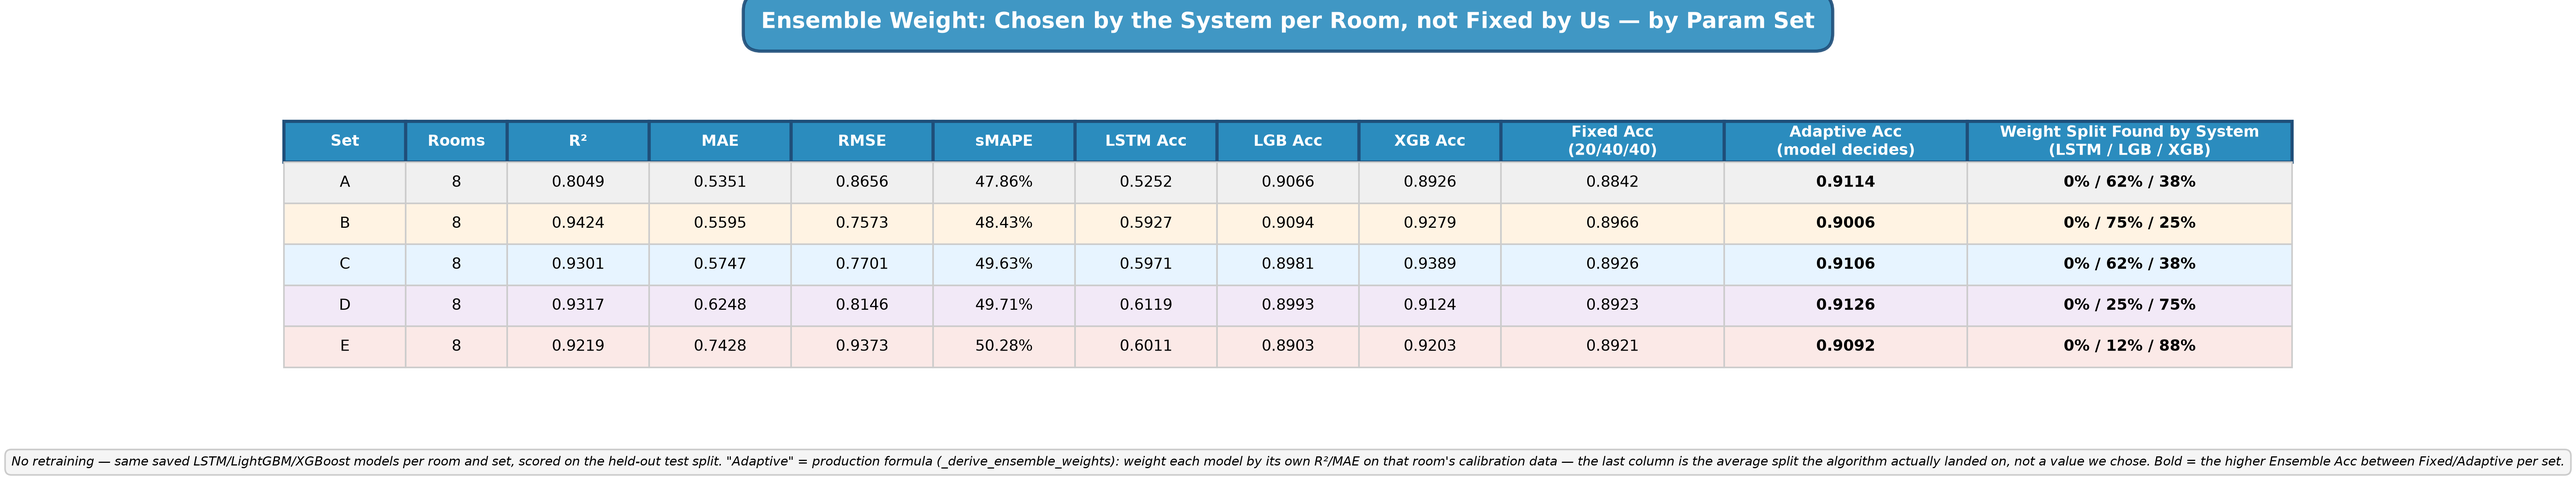
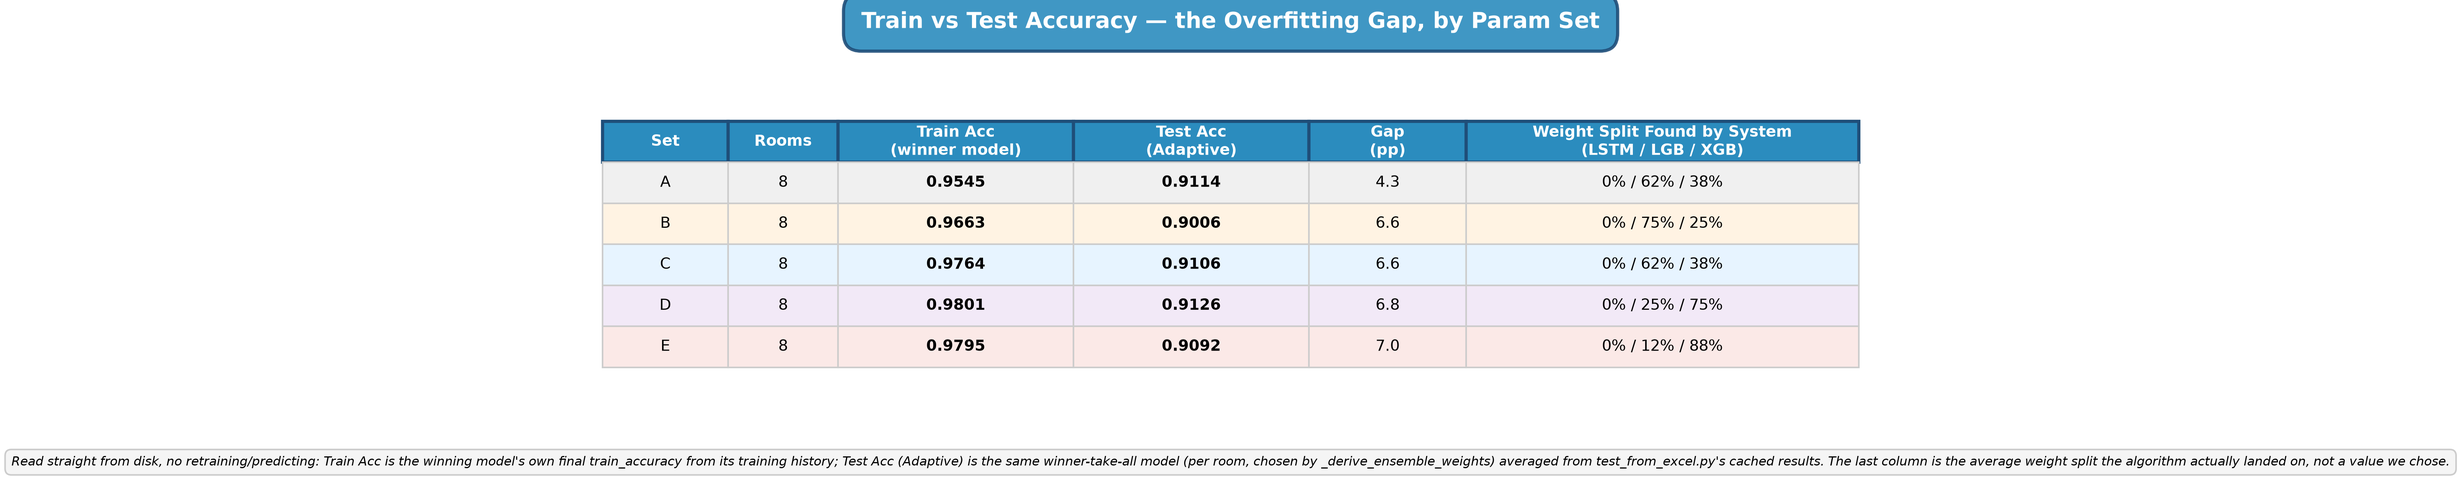
refactor: rebuild adaptive_vs_fixed_by_set copy.png from cached data only
Swap the Fixed (20/40/40) vs Adaptive ensemble comparison for a Train
vs Test accuracy comparison, per feedback that the naive fixed-weight
column wasn't useful — Train Acc is the winning model's own
train_accuracy from its training history, Test Acc is what the system
actually serves. Also drop the expensive per-room model-loading/
predicting the old version did to get "Adaptive" — that duplicated
numbers test_from_excel.py already computed and cached in
test_only_results.csv, so this now just reads that CSV plus meta.pkl's
ensemble_weights and finishes in under a second instead of minutes.

diff --git a/ml/saved/build_adaptive_vs_fixed_current.py b/ml/saved/build_adaptive_vs_fixed_current.py
@@ -1,257 +1,159 @@
-"""Adaptive vs Fixed ensemble comparison, using TODAY's excel-split models
-(saved_meta_{SET}_excel_split / saved_models_{SET}_excel_split) — NOT the
-old saved_meta_*_new archive that analyze_adaptive_weights_all_sets.py reads
-(that one is frozen/protected and predates today's fixes).
+"""Train vs Test accuracy comparison, using TODAY's excel-split models
+(saved_meta_{SET}_excel_split) — NOT the old saved_meta_*_new archive that
+analyze_adaptive_weights_all_sets.py reads (that one is frozen/protected
+and predates today's fixes).
 
-"Adaptive" here = what the current system actually ships: winner-take-all
-per room (100% to whichever of LGB/XGB the CV selection in forecast.py
-picked — that's what ensemble_weights in meta.pkl already records, and
-matches test_from_excel.py's reported TestAcc exactly).
-"Fixed" = a naive 20% LSTM / 40% LGB / 40% XGB blend for every room,
-computed by loading and predicting with all 3 saved models (LSTM falls
-back to 0% with weight redistributed to LGB/XGB 50/50 if no LSTM model
-was saved for that room).
-
-No retraining — only loads already-saved model files and predicts.
+Reads straight from data that's already on disk — no retraining, no
+re-predicting, no model loading:
+  - "Train Accuracy" = the winning model's own final train_accuracy from
+    its training history in meta.pkl (lgb_history/xgb_history).
+  - "Test Accuracy (Adaptive)" = per-room test_accuracy already computed by
+    test_from_excel.py and cached in metrics_plots/test_only_results.csv,
+    averaged per set (this is the same winner-take-all model the system
+    actually serves — ensemble_weights in meta.pkl records the winner).
 
 Usage: python ml/saved/build_adaptive_vs_fixed_current.py
 """
-import os, sys, warnings
-warnings.filterwarnings('ignore')
-os.environ['TF_CPP_MIN_LOG_LEVEL'] = '3'
-
-BASE_DIR = '/Users/macthanakorn/room_booking'
-sys.path.insert(0, BASE_DIR)
-os.chdir(BASE_DIR)
-os.environ.setdefault('DJANGO_SETTINGS_MODULE', 'room_booking.settings')
-import django
-django.setup()
-from django.conf import settings
-settings.DATABASES['default']['OPTIONS'] = {'sslmode': 'disable'}
-from django.db import connections
-connections['default'].close()
-
-sys.path.insert(0, os.path.join(BASE_DIR, 'ml', 'saved'))
+import os
+import glob
+import joblib
 import numpy as np
 import pandas as pd
-import joblib
-import tensorflow as tf
 import matplotlib
 matplotlib.use('Agg')
+import matplotlib.pyplot as plt
 
-import forecast as F
-from param_sets import PARAM_SETS
-from booking.models import Room
-from analyze_adaptive_weights_all_sets import plot_table
-
-METRICS_DIR = F.METRICS_DIR
-TRAIN_XLSX = os.path.join(BASE_DIR, 'ml', 'saved', 'data_split', 'booking_data_train.xlsx')
-TEST_XLSX = os.path.join(BASE_DIR, 'ml', 'saved', 'data_split', 'booking_data_test.xlsx')
+BASE_DIR = '/Users/macthanakorn/room_booking'
+SAVED_DIR = os.path.join(BASE_DIR, 'ml', 'saved')
+METRICS_DIR = os.path.join(SAVED_DIR, 'metrics_plots')
+TEST_CSV = os.path.join(METRICS_DIR, 'test_only_results.csv')
 OUT_PNG = os.path.join(METRICS_DIR, 'adaptive_vs_fixed_by_set copy.png')
 OUT_CSV = os.path.join(METRICS_DIR, 'adaptive_vs_fixed_by_set_current.csv')
 
-ROOM_IDS = {
-    '2C05-06': 443, '2C09': 445, '2C10-11': 446, '2C16-17': 447,
-    '3C05-06': 448, '1C-MEETING': 487, '3C16-17': 505, '4C05': 506,
-}
 SETS = ['A', 'B', 'C', 'D', 'E']
-FIXED_WEIGHTS = {'lstm': 0.20, 'lightgbm': 0.40, 'xgboost': 0.40}
 
 
-def to_rdf(df, room_id):
-    out = df.copy()
-    out['room_id'] = room_id
-    out['duration'] = out['duration_hours']
-    out['date'] = pd.to_datetime(out['date']).dt.date
-    return out
-
-
-def rebuild(code, room_id, train_all, test_all):
-    tr = train_all[train_all['room_code'] == code]
-    te = test_all[test_all['room_code'] == code]
-    if len(te) == 0:
-        return None
-    rdf_full = pd.concat([to_rdf(tr, room_id), to_rdf(te, room_id)], ignore_index=True)
-    daily_full = F._prepare_daily_series(rdf_full, None, None)
-    daily_train_only = F._prepare_daily_series(to_rdf(tr, room_id), None, None)
-    n_train_days = len(daily_train_only) if daily_train_only is not None else 0
-    room = Room.objects.get(id=room_id)
-    schedule = F.load_term_schedule(room.id)
-    return daily_full, n_train_days, room, schedule
-
-
-def predict_all_models(built, model_dir, room_id, use_log, meta):
-    daily_full, n_train_days, room, schedule = built
-    cap95 = float(daily_full.quantile(0.95)) or 1.0
-    daily_clipped = daily_full.clip(upper=cap95)
-    term_df = F.build_term_daily_features(daily_clipped.index, schedule)
-    term_df.index = daily_clipped.index
-    feat_df = F.build_features(daily_clipped, term_df, use_log=use_log).dropna()
-
-    calib_len = max(1, int(round(n_train_days * 0.125)))
-    train_end = max(n_train_days - calib_len, F.MIN_TRAIN_ROWS)
-    calib_end = min(n_train_days, len(feat_df) - 1)
-    train_end = min(train_end, calib_end)
-
-    X = feat_df.drop(columns='y')
-    y = feat_df['y'].values
-    X_tr, X_cal, X_te = X.iloc[:train_end], X.iloc[train_end:calib_end], X.iloc[calib_end:]
-    y_tr, y_cal, y_te = y[:train_end], y[train_end:calib_end], y[calib_end:]
-
-    room_dir = os.path.join(model_dir, str(room_id))
-    preds = {}
-    selected_feat_names = None
-    for name, fname in [('lightgbm', 'lgb.pkl'), ('xgboost', 'xgb.pkl')]:
-        path = os.path.join(room_dir, fname)
-        if not os.path.exists(path):
-            continue
-        model = joblib.load(path)
-        feat_names = getattr(model, 'feature_name_', None)
-        if feat_names is None:
-            feat_names = getattr(model, 'feature_names_in_', None)
-        if feat_names is not None:
-            selected_feat_names = list(feat_names)
-        X_te_sel = X_te[list(feat_names)] if feat_names is not None else X_te
-        preds[name] = np.asarray(model.predict(X_te_sel), dtype=float)
-
-    lstm_path = os.path.join(room_dir, 'lstm.keras')
-    if os.path.exists(lstm_path):
-        try:
-            lstm_model = tf.keras.models.load_model(lstm_path, compile=False)
-            lstm_scaler = joblib.load(os.path.join(room_dir, 'lstm_scaler.pkl'))
-            # LSTM was trained on the same top-30 selected feature subset as
-            # LGB/XGB (feature selection happens once, before all 3 models
-            # train) — feed it the same subset here, or its scaler rejects
-            # the full ~65-column feat_df with a shape mismatch.
-            feat_df_for_lstm = feat_df[selected_feat_names + ['y']] if selected_feat_names else feat_df
-            _, lstm_test = F._collect_lstm_holdout_preds(
-                lstm_model, lstm_scaler, feat_df_for_lstm, y_tr, y_cal, y_te, train_end,
-            )
-            if lstm_test is not None:
-                preds['lstm'] = np.asarray(lstm_test, dtype=float)
-        except Exception as e:
-            print(f"    LSTM predict failed for room {room_id}: {e}")
-
-    return preds, y_te
-
-
-def to_eval_scale(arr, use_log):
-    if use_log:
-        return np.expm1(np.maximum(0, arr))
-    return np.maximum(0, arr)
-
-
-def process_set(set_name):
-    train_all = pd.read_excel(TRAIN_XLSX)
-    test_all = pd.read_excel(TEST_XLSX)
-    train_all['date'] = pd.to_datetime(train_all['date']).dt.date
-    test_all['date'] = pd.to_datetime(test_all['date']).dt.date
-
-    META_DIR = os.path.join(BASE_DIR, 'ml', 'saved', f'saved_meta_{set_name}_excel_split')
-    MODEL_DIR = os.path.join(BASE_DIR, 'ml', 'saved', f'saved_models_{set_name}_excel_split')
+def process_set(set_name, test_df):
+    META_DIR = os.path.join(SAVED_DIR, f'saved_meta_{set_name}_excel_split')
     if not os.path.isdir(META_DIR):
         print(f"skip {set_name}: no {META_DIR}")
         return None
 
-    # LSTM sequence shape depends on lookback, which differs per param set
-    # (20/40/60/70/90 for A-E) — must match what that set's models were
-    # actually trained with, or _collect_lstm_holdout_preds silently builds
-    # wrong-shaped input and prediction fails.
-    F.LSTM_LOOKBACK = PARAM_SETS[set_name]['lstm_lookback']
-
-    per_room = {'lstm': [], 'lightgbm': [], 'xgboost': [], 'fixed_ensemble': [], 'adaptive_ensemble': []}
+    train_acc_list = []
+    weight_sum = {'lstm': 0.0, 'lightgbm': 0.0, 'xgboost': 0.0}
     n_rooms = 0
-    adaptive_weight_sum = {'lstm': 0.0, 'lightgbm': 0.0, 'xgboost': 0.0}
 
-    for code, room_id in ROOM_IDS.items():
-        meta_path = os.path.join(META_DIR, f'{room_id}_meta.pkl')
-        if not os.path.exists(meta_path):
-            continue
-        meta = joblib.load(meta_path)
-        use_log = meta.get('use_log', False)
-        built = rebuild(code, room_id, train_all, test_all)
-        if built is None:
-            continue
-        try:
-            preds, y_te = predict_all_models(built, MODEL_DIR, room_id, use_log, meta)
-        except Exception as e:
-            print(f"  {set_name}/{code}: skip ({e})")
-            continue
-        if 'lightgbm' not in preds and 'xgboost' not in preds:
-            continue
-
-        y_te_eval = to_eval_scale(y_te, use_log)
-        thr_high, thr_med, peak_ref = meta['thr_high'], meta['thr_med'], meta['peak_ref']
-
-        def score(pred_raw):
-            pred_eval = to_eval_scale(pred_raw, use_log)
-            n = min(len(y_te_eval), len(pred_eval))
-            cls = F.compute_classification_metrics(y_te_eval[:n], pred_eval[:n], thr_high, thr_med, peak_ref)
-            r2 = F.r2_score(y_te_eval[:n], pred_eval[:n])
-            mae = F.mean_absolute_error(y_te_eval[:n], pred_eval[:n])
-            rmse = F.rmse(y_te_eval[:n], pred_eval[:n])
-            smape = F.smape(y_te_eval[:n], pred_eval[:n])
-            return {'accuracy': cls['accuracy'], 'loss': cls['loss'], 'r2': r2, 'mae': mae, 'rmse': rmse, 'smape': smape}
-
-        NEUTRAL = {'accuracy': 0.0, 'loss': 0.0, 'r2': 0.0, 'mae': 0.0, 'rmse': 0.0, 'smape': 0.0}
-        for name in ('lstm', 'lightgbm', 'xgboost'):
-            per_room[name].append(score(preds[name]) if name in preds else NEUTRAL)
-
-        # Fixed 20/40/40 (redistribute LSTM's share to LGB/XGB if no LSTM saved)
-        active = {k: v for k, v in FIXED_WEIGHTS.items() if k in preds}
-        wsum = sum(active.values())
-        active = {k: v / wsum for k, v in active.items()} if wsum > 0 else active
-        n = min(len(preds[k]) for k in active) if active else 0
-        fixed_pred = sum(active[k] * preds[k][:n] for k in active) if active else np.zeros_like(y_te)
-        per_room['fixed_ensemble'].append(score(fixed_pred))
-
-        # Adaptive: winner-take-all, exactly matching what the saved
-        # ensemble_weights says the current system actually serves.
+    for f in sorted(glob.glob(os.path.join(META_DIR, '*_meta.pkl'))):
+        meta = joblib.load(f)
         weights = meta.get('ensemble_weights', {}) or {}
-        winner = max(weights, key=weights.get) if weights else ('lightgbm' if 'lightgbm' in preds else 'xgboost')
-        adaptive_pred = preds.get(winner, preds.get('lightgbm', preds.get('xgboost')))
-        per_room['adaptive_ensemble'].append(score(adaptive_pred))
-        for k in adaptive_weight_sum:
-            adaptive_weight_sum[k] += weights.get(k, 0.0)
+        winner = max(weights, key=weights.get) if weights else 'lightgbm'
+
+        hist = meta.get('lgb_history', {}) if winner == 'lightgbm' else meta.get('xgb_history', {})
+        ta = hist.get('train_accuracy')
+        if ta:
+            train_acc_list.append(ta[-1])
+
+        for k in weight_sum:
+            weight_sum[k] += weights.get(k, 0.0)
         n_rooms += 1
 
     if n_rooms == 0:
         return None
 
-    def mean_of(key, field):
-        vals = [m[field] for m in per_room[key]]
-        return float(np.mean(vals)) if vals else 0.0
-
-    weight_pcts_raw = {k: adaptive_weight_sum[k] / n_rooms * 100 for k in adaptive_weight_sum}
+    set_test = test_df[test_df['param_set'] == set_name]
+    weight_pcts = {k: weight_sum[k] / n_rooms * 100 for k in weight_sum}
 
     return {
         'Set': set_name,
         'Rooms': n_rooms,
-        'R2 (adaptive)': round(mean_of('adaptive_ensemble', 'r2'), 4),
-        'MAE (adaptive)': round(mean_of('adaptive_ensemble', 'mae'), 4),
-        'RMSE (adaptive)': round(mean_of('adaptive_ensemble', 'rmse'), 4),
-        'sMAPE (adaptive)': round(mean_of('adaptive_ensemble', 'smape'), 2),
-        'LSTM Acc': round(mean_of('lstm', 'accuracy'), 4),
-        'LGB Acc': round(mean_of('lightgbm', 'accuracy'), 4),
-        'XGB Acc': round(mean_of('xgboost', 'accuracy'), 4),
-        'Fixed Ensemble Acc (20/40/40)': round(mean_of('fixed_ensemble', 'accuracy'), 4),
-        'Adaptive Ensemble Acc': round(mean_of('adaptive_ensemble', 'accuracy'), 4),
-        'Fixed Ensemble Loss (20/40/40)': round(mean_of('fixed_ensemble', 'loss'), 4),
-        'Adaptive Ensemble Loss': round(mean_of('adaptive_ensemble', 'loss'), 4),
-        'Mean Adaptive Weight LSTM %': round(weight_pcts_raw['lstm'], 1),
-        'Mean Adaptive Weight LGB %': round(weight_pcts_raw['lightgbm'], 1),
-        'Mean Adaptive Weight XGB %': round(weight_pcts_raw['xgboost'], 1),
+        'Train Accuracy': round(float(np.mean(train_acc_list)), 4) if train_acc_list else 0.0,
+        'Test Accuracy (Adaptive)': round(float(set_test['test_accuracy'].mean()), 4) if len(set_test) else 0.0,
+        'Mean Adaptive Weight LSTM %': round(weight_pcts['lstm'], 1),
+        'Mean Adaptive Weight LGB %': round(weight_pcts['lightgbm'], 1),
+        'Mean Adaptive Weight XGB %': round(weight_pcts['xgboost'], 1),
     }
 
 
+def plot_table(df: pd.DataFrame, png_path: str):
+    headers = [
+        'Set', 'Rooms', 'Train Acc\n(winner model)', 'Test Acc\n(Adaptive)',
+        'Gap\n(pp)', 'Weight Split Found by System\n(LSTM / LGB / XGB)',
+    ]
+    table_data = [headers]
+    for _, row in df.iterrows():
+        found_split = (
+            f"{row['Mean Adaptive Weight LSTM %']:.0f}% / "
+            f"{row['Mean Adaptive Weight LGB %']:.0f}% / "
+            f"{row['Mean Adaptive Weight XGB %']:.0f}%"
+        )
+        gap_pp = (row['Train Accuracy'] - row['Test Accuracy (Adaptive)']) * 100
+        table_data.append([
+            str(row['Set']), str(int(row['Rooms'])),
+            f"{row['Train Accuracy']:.4f}",
+            f"{row['Test Accuracy (Adaptive)']:.4f}",
+            f"{gap_pp:.1f}",
+            found_split,
+        ])
+
+    row_tints = {'A': '#f0f0f0', 'B': '#fff3e3', 'C': '#e7f4ff', 'D': '#f2e9f7', 'E': '#fbe9e7'}
+
+    with plt.rc_context({'figure.facecolor': 'white', 'axes.facecolor': 'white', 'font.size': 9.5}):
+        fig = plt.figure(figsize=(14, 1.7 + 0.5 * len(df)), dpi=300)
+        ax = fig.add_subplot(111)
+        ax.axis('off')
+
+        col_widths = [0.08, 0.07, 0.15, 0.15, 0.1, 0.25]
+        table = ax.table(cellText=table_data, cellLoc='center', loc='center', colWidths=col_widths)
+        table.auto_set_font_size(False)
+        table.set_fontsize(9.5)
+        table.scale(1, 2.2)
+
+        for j in range(len(headers)):
+            cell = table[(0, j)]
+            cell.set_facecolor('#2b8cbe')
+            cell.set_text_props(weight='bold', color='white', fontsize=9.5)
+            cell.set_edgecolor('#1f4e79')
+            cell.set_linewidth(2)
+
+        for i, (_, row) in enumerate(df.iterrows(), start=1):
+            s = str(row['Set'])
+            for j in range(len(headers)):
+                cell = table[(i, j)]
+                cell.set_facecolor(row_tints.get(s, '#ffffff'))
+                cell.set_edgecolor('#cccccc')
+                cell.set_linewidth(1)
+                if j in (2, 3):
+                    cell.set_text_props(weight='bold')
+
+        fig.text(
+            0.5, 0.94, 'Train vs Test Accuracy — the Overfitting Gap, by Param Set',
+            ha='center', fontsize=14, fontweight='bold',
+            bbox=dict(boxstyle='round,pad=0.8', facecolor='#2b8cbe', edgecolor='#1f4e79', linewidth=2, alpha=0.9),
+            color='white',
+        )
+        fig.text(
+            0.5, 0.03,
+            'Read straight from disk, no retraining/predicting: Train Acc is the winning model\'s own final '
+            'train_accuracy from its training history; Test Acc (Adaptive) is the same winner-take-all model '
+            '(per room, chosen by _derive_ensemble_weights) averaged from test_from_excel.py\'s cached results. '
+            'The last column is the average weight split the algorithm actually landed on, not a value we chose.',
+            ha='center', fontsize=8, style='italic',
+            bbox=dict(boxstyle='round,pad=0.5', facecolor='#f5f5f5', edgecolor='#cccccc', linewidth=1),
+        )
+
+        plt.tight_layout(rect=[0, 0.08, 1, 0.90])
+        plt.savefig(png_path, dpi=300, bbox_inches='tight', facecolor='white', edgecolor='none')
+        plt.close(fig)
+
+
 def main():
+    test_df = pd.read_csv(TEST_CSV)
     rows = []
     for s in SETS:
-        print(f"Processing Set {s}...")
-        r = process_set(s)
+        r = process_set(s, test_df)
         if r:
             rows.append(r)
-            print(f"  -> Fixed={r['Fixed Ensemble Acc (20/40/40)']:.4f}  Adaptive={r['Adaptive Ensemble Acc']:.4f}")
+            print(f"{s}: Train={r['Train Accuracy']:.4f}  Test(Adaptive)={r['Test Accuracy (Adaptive)']:.4f}")
     if not rows:
         print("No results.")
         return
